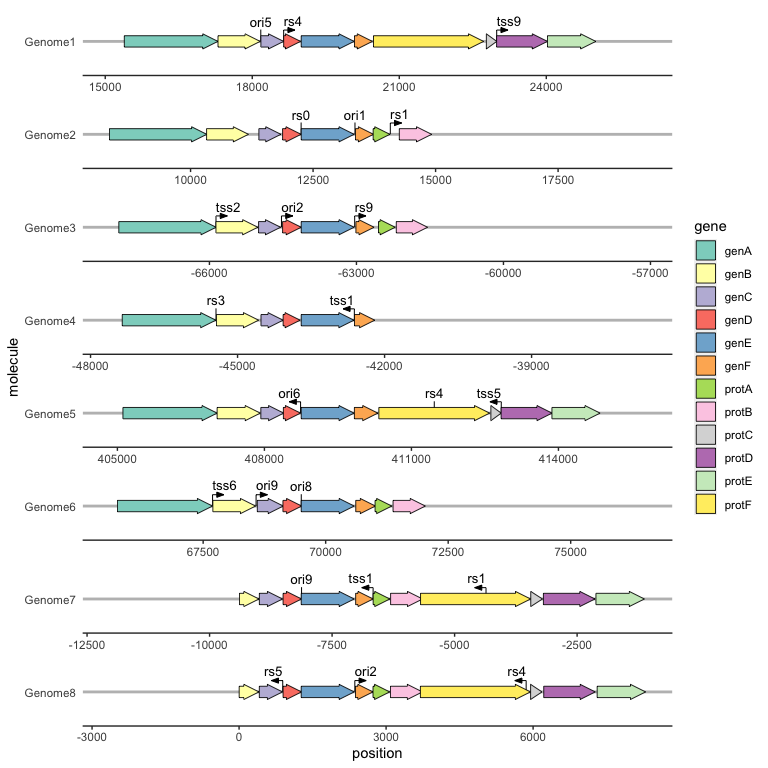
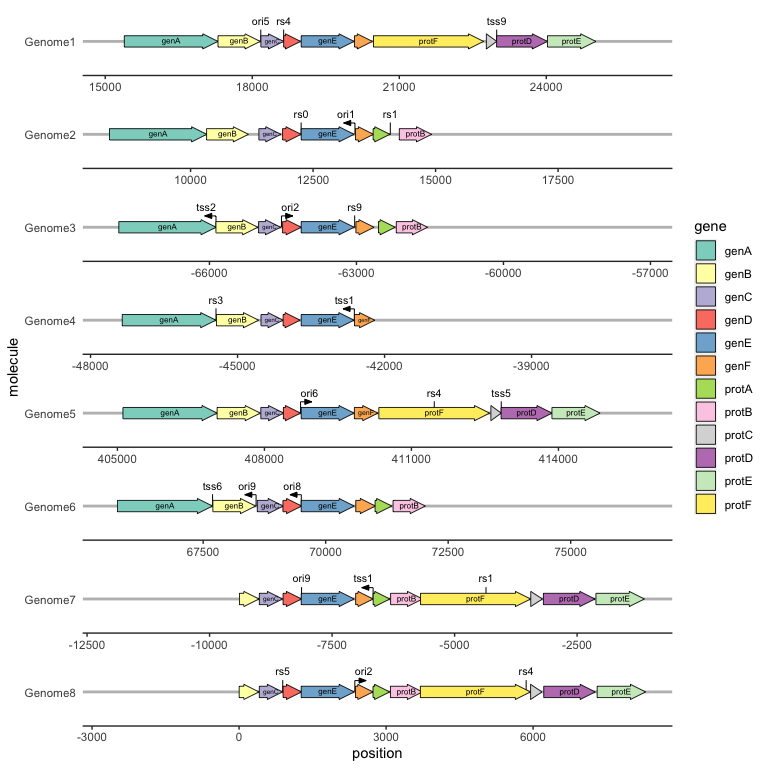
Minor adjustments to new feature geoms - Reduce default size for `geom_feature_label()` - Fix vertical alignment of oriented and non-oriented features - More sensible example data in `example_features`

diff --git a/README.md b/README.md
@@ -33,6 +33,8 @@ molecules with ridiculously tiny genes.
 
 ``` r
 library(ggplot2)
+#> Need help getting started? Try the R Graphics Cookbok:
+#> https://r-graphics.org
 library(gggenes)
 
 ggplot(example_genes, aes(xmin = start, xmax = end, y = molecule, fill = gene)) +
@@ -189,7 +191,7 @@ direction (`TRUE` meaning oriented towards the right of the x-axis and
 `FALSE` meaning towards the left).
 
 ``` r
-ggplot(example_genes, aes(xmin = start, xmax = end, y = molecule, fill = gene)) +
+ggplot(example_genes, aes(xmin = start, xmax = end, y = molecule, fill = gene, label = gene)) +
   geom_feature(
     data = example_features,
     aes(x = position, y = molecule, forward = forward)
@@ -199,6 +201,7 @@ ggplot(example_genes, aes(xmin = start, xmax = end, y = molecule, fill = gene)) 
     aes(x = position, y = molecule, label = name, forward = forward)
   ) +
   geom_gene_arrow() +
+  geom_gene_label() +
   geom_blank(data = example_dummies) +
   facet_wrap(~ molecule, scales = "free", ncol = 1) +
   scale_fill_brewer(palette = "Set3") +
